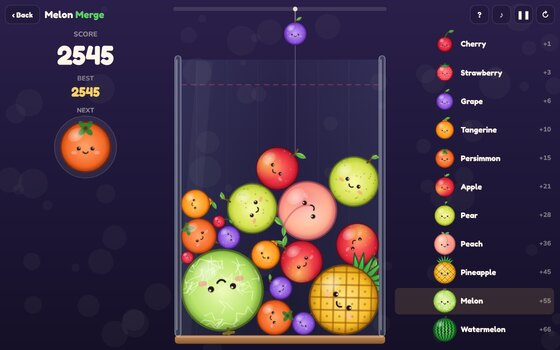
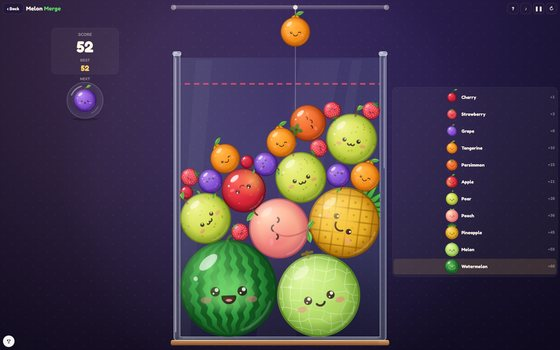
Melon Merge: new card picture and phone thumbnail, README section on the drawing
Claude-Session: https://claude.ai/code/session_01DfCR7RPoK1UNAvb7iRuPWn

diff --git a/README.md b/README.md
@@ -39,7 +39,7 @@ Personal site hosted with GitHub Pages at **https://ascoding11.github.io**, the 
 - `e63334287a3deaa3/gridpop/`: Gridpop (Back Room), a single-player block-placement puzzle on an 8 × 8 board (one canvas, no libraries, no Firebase). The rules live between `// ==CORE==` and `// ==/CORE==` with no drawing or input: `DEFS` lists the 41 pieces, every orientation a separate piece because pieces never turn, each with a weight (pieces of 5 or more squares are about one draw in six); `deal` makes three independent weighted draws and only looks at the board to make sure an empty board gets something that fits, so sets are never rigged either way; `applyMove` places a piece, clears every full row and column at once (crossing squares once), scores 1 a square plus `lineScore(n)` (10, 30, 60, 100, 150, 210 for 1–6 lines, `5n(n+1)`) times the combo, and deals a new set only when all three tray slots are empty. The combo goes up by one for each clear that comes within 2 non-clearing placements of the last one (`combo`, `miss`); a third miss resets it. Game over is checked after the clears, against every position of every piece left in the tray. Saved in the browser only: `gridpop:save` (the game in progress as `{v:1, b: 64 digits 0–8, t: tray as [piece id, colour] or 0, s, cb, ms, mv, best}`, written after every move and removed when the game ends; `deserialize` rejects anything out of range, unknown piece ids or a board with a full line, and a bad save just starts a new game), `gridpop:best`, `gridpop:mute`, `gridpop:seen` (How to play shown once), and keys in `keybinds:gridpop` (keybinds.js). Dragging (`updateSnap`, `liftFor`, `slotAt`): a press anywhere in a piece's third of the strip beside the board picks it up (a press in an empty slot's third takes the nearest piece left, if close), and the piece grows to board size at once. With a mouse it is centred on the cursor; on touch it rides 1.75 squares above the finger, the same everywhere, except that when the board reaches almost to the bottom of the screen (phones sideways) the lift shrinks over the last 2.5 squares so the bottom row can be reached with the finger still on the screen. It snaps by its centre to the nearest square; if that spot is blocked, the nearest free spot within about half a square more is used, a piece hanging a little off the edge counts as at the edge, and a chosen spot is kept until the piece is clearly nearer another (so it doesn't flicker or move as the finger lifts). The shadow (the piece's colour plus a white outline drawn over the dragged piece) is always exactly where it will drop, and there is no shadow when it can't drop; letting go drops it on the shadow or sends it back to the tray. Leaderboards hooks: `BackRoomStats.max('score', …)` (best score) and `add('lines', n)` (lines cleared). A test hook (`window.__gp`) exists only when `navigator.webdriver` is set.
 - `e63334287a3deaa3/2048/`: 2048 (Back Room), the single-player number-sliding puzzle, drawn on one canvas (no libraries). The rules are pure functions at the top of the page script (`slideLine`, `moveBoard`, `spawnTile`, `isOver`); a board is an array of n × n numbers, row by row, with 0 for empty (every rule takes the size from the board's length), and `linesFor(n)` lists each direction's rows or columns starting from the wall being moved toward, which is where joins start (`LINES` is the 4 × 4 set). A move that changes nothing does nothing (no new tile, animation or score). A move made during an animation finishes that animation at once and then runs, so fast keys never lose a move or add an extra tile. **Modes** (picker under the buttons and in the menu; the last one played reopens): **Classic** is the 4 × 4 game; **Mega** is the same game on a 6 × 6 board (same spawn odds, win at 2048 with keep-going); **College** and **Dessert** are rule-identical to Classic (same engine, only the drawing differs) but each tile shows a step on a 12-step ladder from 2 to 4096 with its own colours, the number small in the corner, and a win at the 2048 step: colleges from ASU up to UChicago (2048) and Princeton (4096), a deliberately silly joke ranking with no basis beyond rough selectivity (the ladder is `COLLEGE` in the script), and desserts from a plain cracker up to a wedding cake (2048) and a croquembouche (4096), each with a small icon drawn with canvas shapes (`DESSERT` and `ICONS`); past the top of a ladder tiles show plain numbers. Strict mode (on by default; the setting was called Classic before the modes arrived, and its key is still `classic`) hides Undo; with it off there is a one-step Undo, and a game where Undo was used no longer reports to the leaderboard. Everything is saved only in this browser, one game and one best per mode: `g48:game` and `g48:best` for Classic (unchanged, so older saves carry over), `g48:game:<mode>` and `g48:best:<mode>` for `mega`, `college` and `dessert` (the game in progress is `{v:1, b: board, s: score, w: reached 2048, wp: the 2048 screen is still showing, u: the undo step {b, s, w} or null, a: Undo was used, m: moves}`, with 36 entries in `b` for Mega), `g48:opts` (`classic`, `mute`, `mode`) and `keybinds:2048` (keybinds.js). Keep these keys and the `v:1` format so saved games carry over; every read is checked (a save of the wrong size for its mode is ignored), and a broken save just starts a new game. Leaderboard hooks, sent only from games without Undo: `BackRoomStats.max('best', score)` and `BackRoomStats.max('tile', biggest tile)` for Classic, and `best-<mode>` / `tile-<mode>` for the others (`best-mega`, `tile-mega`, `best-college`, `tile-college`, `best-dessert`, `tile-dessert`; stat names can't hold underscores). The 2048 leaderboard has a chip for each mode's best score plus Classic's biggest tile (`tile-<mode>` is sent but has no board yet), and account-nudge.js saves `g48:best` and every `g48:best:<mode>` to the signed-in account. A webdriver-only hook `window.__g48` exposes the rules, the mode switch and game controls for automated tests.
 - `e63334287a3deaa3/stackfall/`: Stackfall (Back Room), a single-player falling-block puzzle with two modes on one page (Canvas 2D, Web Audio, no Firebase). The rules are two pure engines with no DOM in them, `Classic(opts)` and `Sand(opts)`, driven by `update(ms, softDrop)` and the move, rotate, hardDrop and holdPiece calls; the view only reads their state, and they report sounds and effects through `onEvent`. **Classic**: a 10 × 20 well plus 2 hidden rows, 7-bag randomizer (`makeBag`), SRS rotation with the published kick tables (`KICKS_UP`, one table for J/L/S/T/Z and one for I; `KICKS` is the same data converted to y-down), DAS 170 ms and ARR 50 ms, 500 ms lock delay that up to 15 moves or turns can reset (`LOCK_MS`, `MAX_RESETS`), gravity from the standard `(0.8 − (level − 1) × 0.007)^(level − 1)` s per row curve, a level every 10 lines, hold once per piece and a five-piece preview. Scoring is 100/300/500/800 × level for 1–4 lines (4 is called a "QUAD!"), T-spins by the 3-corner rule (0–3 lines 400/800/1200/1600, minis 100/200/400, all × level; the 5th kick test upgrades a mini), back-to-back × 1.5 for quads and T-spin clears in a row, combo +50 × combo × level, and 1 per soft-dropped row, 2 per hard-dropped row. It tops out when a new piece overlaps the stack or a piece locks entirely in the hidden rows. **Sand**: the well is a grain grid of 10·B × 20·B in typed arrays (B = 10, so 100 × 200, on computers; B = 8, so 80 × 160, on touch screens and small windows; every rule is in block units, so both play the same and grain counts and scores are normalised to 64 grains per block). Each piece is rigid and steerable (moves in half-block steps) until it touches the floor or the sand, then it crumbles into grains of its one colour (per-grain shade). `step()` is the cellular automaton: bottom row up, each grain falls straight down if it can, else slides diagonally down to a random free side, else rests, so each grain moves at most once a step; it runs at 22.5·B steps a second, up to 10 a frame. `findClear()` flood-fills (4-neighbour, one colour, `Int32Array` queue) from every grain on the left wall, and a component that also reaches the right wall clears whole: it flashes for 200 ms, a dissolve sweeps across it for 260 ms, and then all its grains vanish together so the sand above drops and can make another link. Points are the grains removed × the chain count in that cascade × (1 + 0.25 × (level − 1)), plus 300 × (colours − 1) × level when a new colour joins the chain; the chain resets once the sand comes to rest with nothing left to clear. The level goes up every 3,000 grains cleared (`GRAINS_PER_LEVEL`) and the fall speed is `sandSpeed(level)` blocks a second. Game over: the danger line is 2 blocks below the top (`DANGER`); a new piece only appears when no sand is above it, and if sand is still above it 1 s after the piece is due (`SPAWN_WAIT_MS`), the game ends. Sand mode has 4 colours by default, or 5 or 6. Saved in this browser only: best scores in localStorage `stackfall:best:classic`, `stackfall:best:sand` (4 colours), `stackfall:best:sand5` and `stackfall:best:sand6`, plus `stackfall:sandColours`, `stackfall:mute` and the key bindings (`keybinds:stackfall`, via `keybinds.js`). At game over it reports `BackRoomStats.max('classic' | 'sand', score)` and `max('lines', lines)`; `stats.js` has no `READ` entry for it yet. In an automated browser, `window.__sf` exposes both engines, the shape and kick tables, `state()`, `layout()` and `start(mode)` for the rule tests.
-- `e63334287a3deaa3/melon-merge/`: Melon Merge (Back Room), a single-player fruit-merging puzzle with its own 2D circle physics (no libraries, no Firebase). Fruit are dropped from above a glass jar; two of the same stage that touch merge into the next of 11 stages (cherry → watermelon) at their combined centre with their averaged velocity, growing to full size over 0.12 s so neighbours get pushed aside; two watermelons that touch both burst for `MELON_BONUS` (200). Drops are uniformly random from stages 1–5 (`makeQueue`). Merging into stage k scores `SCORES[k]` (1, 3, 6, … 66), and every merge in a chain counts. Game over when any fruit that isn't still falling in (it counts once it first lands, or after `ENTER_GRACE` 1 s) stays above the red line (`DANGER_Y`) for `OVER_LIMIT` 1.5 s in a row. The physics (`makeSim`) has no DOM in it: world units with the jar 520 × 720, a fixed 1/120 s step with 2 sub-steps, warm-started sequential impulses with friction and rolling, bounce only on a contact's first touch (so piles can't pump themselves up), then 4 position-correction passes (heavier fruit move less) and wall clamps; change `RADII` and the jar size together, since the danger line and drop height are measured against them. Only the best score is saved, in this browser under `melon-merge:best` (also `melon-merge:mute` and `melon-merge:faces`); a game in progress isn't saved. Keys are rebindable through `keybinds.js` (`keybinds:melon-merge`). Calls `BackRoomStats.max('score', …)` at game over and `BackRoomStats.add('melons', 1)` for each watermelon; `leaderboard.js` needs entries for those if they should show on the leaderboards. **Turkey Week** (`../events.js`, November 15 to 26, 2026): the eleven stages are drawn as a Thanksgiving dinner (cranberry, pecan, sprout, dinner roll, yam, apple, corn, ham, pumpkin, pumpkin pie, turkey): `FR_DINNER` holds the names and colours and `paintDinner` the art, swapped in by `setDinner`; the help text and the first-turkey banner follow. Sizes, scores, physics and the saved best are unchanged. The Turkey Week button on the start and pause panels switches back to fruit.
+- `e63334287a3deaa3/melon-merge/`: Melon Merge (Back Room), a single-player fruit-merging puzzle with its own 2D circle physics (no libraries, no Firebase). Fruit are dropped from above a glass jar; two of the same stage that touch merge into the next of 11 stages (cherry → watermelon) at their combined centre with their averaged velocity, growing to full size over 0.12 s so neighbours get pushed aside; two watermelons that touch both burst for `MELON_BONUS` (200). Drops are uniformly random from stages 1–5 (`makeQueue`). Merging into stage k scores `SCORES[k]` (1, 3, 6, … 66), and every merge in a chain counts. Game over when any fruit that isn't still falling in (it counts once it first lands, or after `ENTER_GRACE` 1 s) stays above the red line (`DANGER_Y`) for `OVER_LIMIT` 1.5 s in a row. The physics (`makeSim`) has no DOM in it: world units with the jar 520 × 720, a fixed 1/120 s step with 2 sub-steps, warm-started sequential impulses with friction and rolling, bounce only on a contact's first touch (so piles can't pump themselves up), then 4 position-correction passes (heavier fruit move less) and wall clamps; change `RADII` and the jar size together, since the danger line and drop height are measured against them. Only the best score is saved, in this browser under `melon-merge:best` (also `melon-merge:mute` and `melon-merge:faces`); a game in progress isn't saved. Keys are rebindable through `keybinds.js` (`keybinds:melon-merge`). Calls `BackRoomStats.max('score', …)` at game over and `BackRoomStats.add('melons', 1)` for each watermelon; `leaderboard.js` needs entries for those if they should show on the leaderboards. **Drawing:** everything is painted in code, once per screen size, and then only copied each frame. Each stage has a sprite that turns with the fruit (`paintFruit`: body, pattern, stem and a face; `FACES` gives each stage its own eyes and mouth) and a light-and-shadow layer that doesn't turn (`paintShade`, in the fruit's own pale and dark colours, with a white highlight as strong as its `GLOSS`), so the lamp stays up and to the left while fruit roll. The wall, the glass jar on its shelf, the score and guide cards and the glass Next bubble are painted into one background canvas (`buildBg`); `hudGeom` works out where the score, Next bubble and guide sit, for both the background and `drawHud`. A merged fruit is drawn squashed wide, then tall, then settles over `POP_T` 0.42 s (`POP_AMT`), with a white flash, a ring and a few sparkles (`burst`): that is drawing only, and its real size and the physics don't change. The start card shows the eleven stages in a row and the game over card the biggest fruit made (`drawParade`, `drawEndArt`, small canvases redrawn whenever the sprites are rebuilt). **Turkey Week** (`../events.js`, November 15 to 26, 2026): the eleven stages are drawn as a Thanksgiving dinner (cranberry, pecan, sprout, dinner roll, yam, apple, corn, ham, pumpkin, pumpkin pie, turkey): `FR_DINNER` holds the names and colours and `paintDinner` the art, swapped in by `setDinner`; the help text and the first-turkey banner follow. The dinner uses the same light-and-shadow layer (`DINNER_GLOSS`), faces, jar and merge pop as the fruit; the turkey keeps the plain smile because its beak sits over the mouth. Sizes, scores, physics and the saved best are unchanged. The Turkey Week button on the start and pause panels switches back to fruit.
 - `e63334287a3deaa3/patchwork-tower/`: Patchwork Tower (Back Room), a one-screen fix-it arcade game in pixel art for one player (one file, one canvas, Web Audio, no libraries, no Firebase except stats.js). It took the place of Hivefix; `e63334287a3deaa3/hivefix/index.html` is now only a redirect to it, so old links and bookmarks still work (`m/thumbs/hivefix.jpg` stays for the old What's new entry). Rivet, a repair bot with a wrench, hops between the windows of a brick tower at night (5 across, 4 down) and fixes each broken one until it glows; cracked windows take one fix, dark ones two, and fixing roots the bot to the spot. A gargoyle walks along the roof, stops over a column (more often than not the bot's), winds up (eyes red, a red arrow under the roof ledge on every column about to be hit) and kicks a brick straight down it. Clearing every window ends the floor (500 plus 10 for each second left of 60) and the next one starts with a new layout. **Rules** live between `// ==RULES==` and `// ==END RULES==`: no page, clock, sound or `Math.random` in there, so the same seed and presses always give the same game (`create(seed)`, `step(g, 1/120)`, `press(g, k)` for a tap and `hold(g, k, on)` while a key or button is down, with k one of up, down, left, right, fix; what should be heard goes into `g.ev` as words the page plays). `g.win[r][c]` is 0 fixed / 1 cracked / 2 dark; `g.blockV[r][c]` is a planter under the sill of (r, c), which blocks climbing between rows r and r+1; `g.blockH[r][c]` is an open shutter between (r, c) and (r, c+1), which blocks stepping sideways. **Tuning** is the constants at the top of the rules: a hop takes 0.12 s (`HOP`), a fix 0.26 s (`FIX`; 0.08 s with cocoa), a press made during a hop or fix is remembered for 0.3 s (`BUF`), a held direction or FIX repeats after 0.22 s (`REPEAT`), the wind-up is 0.4 s (`TELE`) plus 0.3 s on floor 1 shrinking to nothing by floor 4 (`TELE_EARLY`), 3 lives, a hit freezes the world for 1 s and restarts the bot at the door with 2 s of blinking. Per floor: 7 + 2 × floor windows broken (all 20 from floor 7), the chance one is dark is 0.15 + 0.1 × floor up to 0.75, one more planter or shutter each floor up to four (each on its own edge, redrawn until every window can be reached), the gargoyle walks at 55 + 9 × floor pixels a second, bricks fall at 65 + 11 × floor, and its rest between kicks is 1.5 − 0.13 × floor seconds, never under 0.35; the speeds stop rising at floor 12 (`TOP_LEVEL`). From floor 2, bats cross a row (an arrow blinks at that edge of the row for 0.8 s first, `BAT_WARN`); from floor 3 a kick sometimes (35%) sends a second brick down a neighbouring column 0.18 s later, chosen at the start of the wind-up so its arrow shows too. Cocoa appears on a sill now and then for 7 s: 6 s safe from everything, the first 4 with one-tap repairs, +300. The hit boxes are narrower than the sprites (9 pixels either side for bricks and bats). **Drawing**: the game is a 240 × 320 picture. `layout()` shows it at a whole number of device pixels per game pixel (the canvas is sized in device pixels and scaled back by 1/devicePixelRatio, its corner snapped to a device pixel), so pixels stay square and sharp on any screen; never size the canvas with CSS percentages or `vh`. The sky, skyline and brickwork are drawn once (`back`), the windows, planters and shutters are redrawn only when one changes (`g.winDirty`), and words use a 5 × 5 pixel alphabet drawn in code (`FONT`, capitals, digits and `+ - : ! .` only), not a web font. The loop runs the rules in fixed steps of 1/120 s and draws between steps, so it plays at the same speed on 60, 120 and 144 Hz screens. The game pauses when the tab is hidden or the window loses focus. **Saved in the browser only**: `patchwork-best`, `patchwork-mute` (in try/catch), keys under `keybinds:patchwork-tower`. Stats hook: `max('score', score)` and `max('floor', floor reached)` when a floor is cleared and at game over (the Leaderboards show best score). Controls: arrows or WASD hop (hold to keep hopping), Space, Z or X fix (hold to keep fixing), P, Enter or Esc pause, M sound, all rebindable under KEYS. On touch screens (`body.touch`): a d-pad (slide a thumb between arrows) and a round FIX button under the screen, or either side of it when the phone is sideways. How to play sits beside the screen when there is room, otherwise behind the ? button. A test hook (`window.__pt`) exists only when `navigator.webdriver` is set.
 - `e63334287a3deaa3/daily/`: Daily Puzzles (Back Room), the dashboard for every daily puzzle. No libraries, no network except stats.js. `DAILY_GAMES` at the top of the script lists every daily game (`slug` = folder = storage key `daily:<slug>`, name, icon, `cat`: word, geo, logic or soccer, a one-line blurb, `ready`), plus `EXTRA` link cards under Play together (Puffer Party, `chip` in place of a daily status). Tiles only show for `ready:true` games, and "Coming soon" ones are listed under each category; flip `ready` when a game's folder lands. For each game it reads the shared record `daily:<slug>` (written by the game when a daily ends: `{ v:1, days:{YYYYMMDD:{done,win,score,tries,time}}, played, wins, streak, maxStreak, last, dist }`) and shows today's status (Not played, Solved in N / in m:ss, Done, or Missed) and the game's 🔥 streak (only while its last win was today or yesterday). Deepword is read from its own `deepword:` keys. The summary counts today's finished puzzles, the overall streak (days in a row, ending today or yesterday, with at least one daily done, worked out from every game's `days`), and counts down to local midnight; when every ready game is done it shows an "All done today" banner. stats.js (`data-game="daily"`): `max('streak', overall)` and `add('done', 1)` once per game per day (remembered in `daily-hub:counted`). It re-reads storage when the tab comes back into view or another tab writes, so finishing a puzzle in another tab updates it. Test hook: `window.__dh` under webdriver (`setToday`, `render`, `streakOverall`). A game whose win shouldn't read "Solved in <tries>" gives a `show` template (`{tries}`, `{score}`, `{time}`; `{score|hint}` adds the word, plural unless the number is 1, and `zero` is the text used when the number is 0): Crosslet shows its time, Ninefold puzzles solved of 3, Crossbar squares, Stat Duel calls right, Top Bins entries found, Quartets mistakes (Perfect for none), Sleight hints and Poopdle moves. A missed puzzle's tile has the finished look but no ✓. Poopdle is under Logic. The daily games don't have Back Room or phone-page cards of their own: the Daily Puzzles card and tile are the way in (the phone thumbnails in `m/thumbs/` are kept for if they ever do).
 - `e63334287a3deaa3/hunch/`: Hunch (Back Room, a daily puzzle on the Daily Puzzles page), a five-letter word guess in six tries, like Wordle. No libraries, no network: `words.js` holds `window.WORDS5 = { ANSWERS, GUESSES }` as space-separated strings, 2,019 answers (common, school-safe, no plurals) and 6,334 more allowed guesses (8,353 in all), written for the site and checked by a script (five letters a–z, no repeats, every answer also a guess, a blocklist for rude words). `ANSWERS` is already in daily order (a fixed seeded shuffle): day n after 1 November 2026 (puzzle #n+1, from the player's local date) uses `ANSWERS[n % length]`, so new answers must be **appended** to keep past days unchanged. Scoring marks greens first, then yellows only for as many copies as the answer has left. Hard mode (Settings, only before a game's first guess) makes every green stay put and every found letter be reused; High contrast swaps green/yellow for orange/blue. Unlimited mode picks random answers and never touches daily stats. Storage: the shared daily record `daily:hunch` (`{ v:1, days:{YYYYMMDD:{done,win,score,tries,time,hard?}}, played, wins, streak, maxStreak, last, dist }`, 60 days kept; the Daily Puzzles page reads it), the day in progress `hunch:day` (`{ d, g:[guesses], hard, t0 }`), Unlimited `hunch:free`, settings `hunch:settings`, `hunch:seen` (how-to shown) and `hunch:mode`. stats.js (`data-game="hunch"`): `add('wins')`, `max('streak')`, `min('fewest')`. The page is generated from the same engine as Fourcast (`CFG` at the top of the script: boards, rows, offset); keep the two in step when fixing the engine. Tile size is worked out in `fit()` (bigger of the layouts that fit); on a sideways phone the keyboard sits right of the board. Test hooks: `window.__wg` under webdriver (`setToday('YYYYMMDD')`, `type(word)`, `score`, …). Thanksgiving Day 2026 (`TG_DAY`) has its own answer, FEAST, set in `answersFor` for Hunch only; every other day and Fourcast are unchanged.
